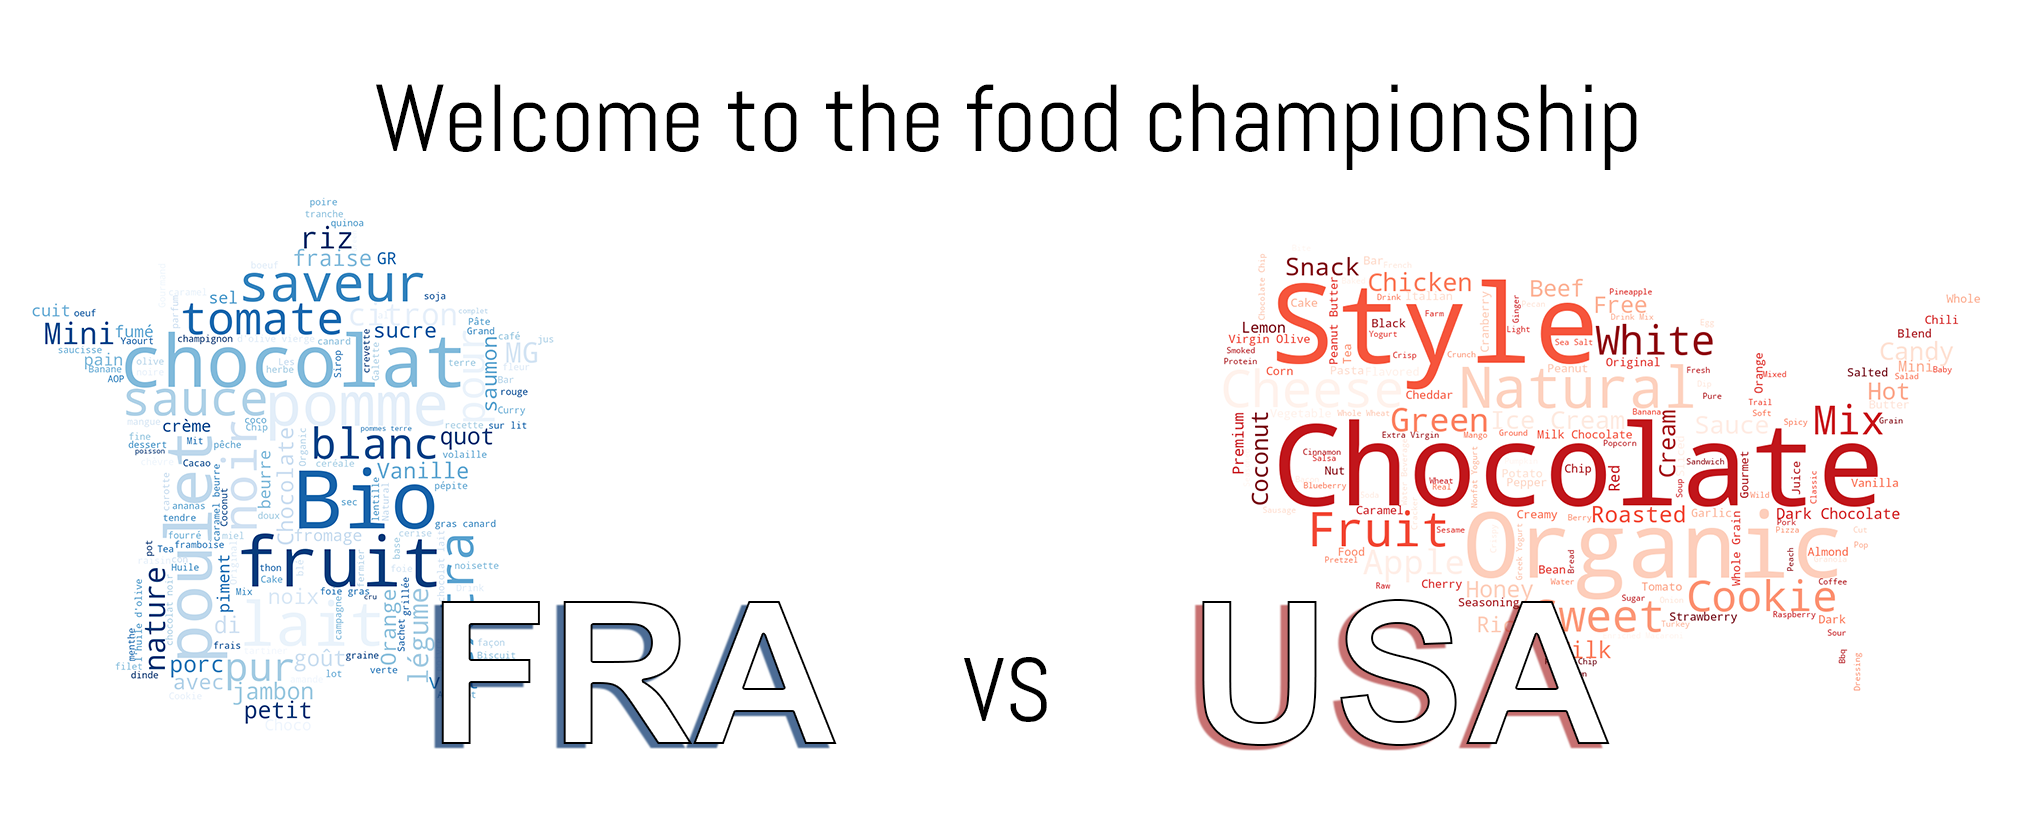
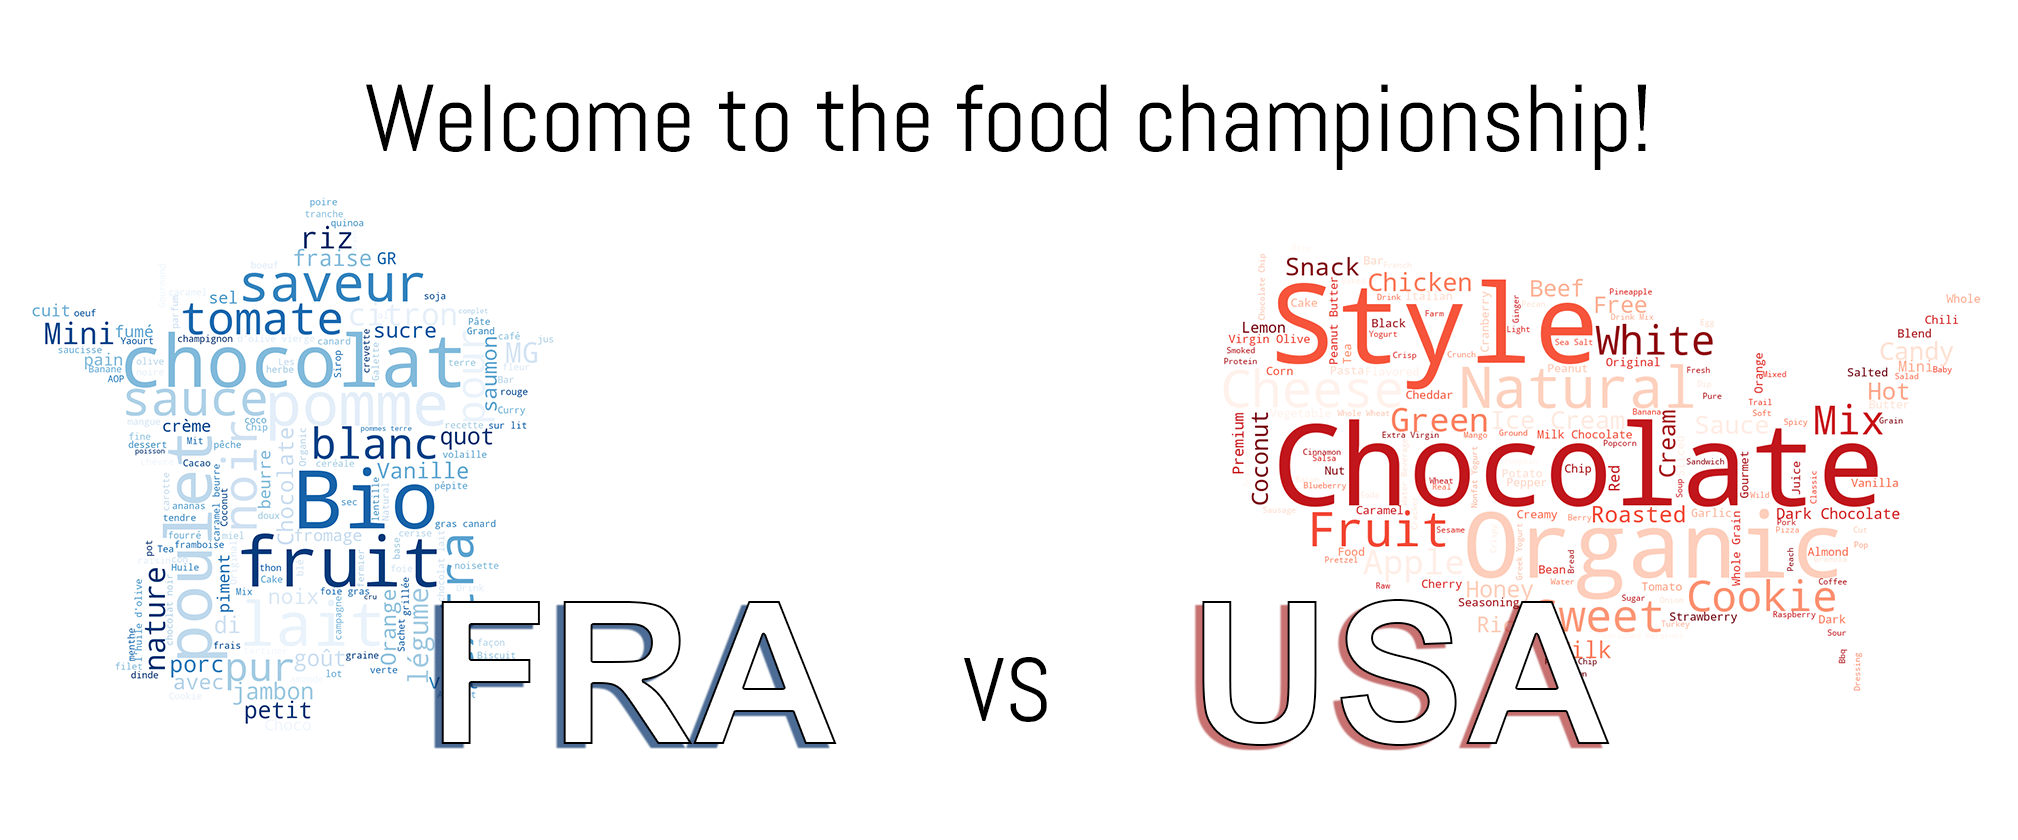
text fix and new header img

Changed region(s): [[0.1873, 0.0929, 0.8117, 0.2167]]

diff --git a/index.html b/index.html
@@ -38,13 +38,10 @@
         <div id="start">
             <h2>Start</h2>
             <h3>We all need to eat to live, but how many of us live to eat?</h3>
-            <p>
-                According to the World Health Organization (WHO), obesity is increasing. The definition of obesity is as follows:
+            <p><cite>"Overweight and obesity are defined as abnormal or excessive fat accumulation that may impair health."</cite> 
+                <br>&nbsp&nbsp&nbsp&nbsp&nbsp - World Health Organization (WHO)
             </p>
-            <blockquote cite="https://www.who.int/news-room/fact-sheets/detail/obesity-and-overweight">
-                <p><i>Overweight and obesity are defined as abnormal or excessive fat accumulation that may impair health.</i></p>
-            </blockquote>
-            <p> "Abnormal" fat accumulation is usually measured with Body Mass Index (BMI) for adults. A BMI over 25 is defined as overweight and a BMI over 30 is
+            <p> A Body Mass Index (BMI) over 25 is defined as overweight and a BMI over 30 is
                 defined as obese. In 2016, 39% of adults worldwide were overweight and 13% were obese. WHO considers obesity an epidemic and calculated in 2017 that
                 2.8 million people die every year due to being overweight or obese. Obesity is also considered an easily preventable epidemic by the WHO,
                 as it in most cases can be prevented by consuming a healthy diet and doing physical exercise.
@@ -276,36 +273,35 @@
                     </figure>
                  </div>
             <p>
-                We immediately observe that the amount of energy per 100g seems to be very similar for meat items from the two countries.
-                We also protein levels for the two different countries seems to be fairly equal.
-                However, as can be seen in the box plot for carbohydrates food items from US seems to contain much more per 100g 
-                than the products from France. This observation could, as mentioned in the introduction of this category, be 
-                explained by that the different countries prepare the food differently. A common prejudice is that
-                US products often are fried in oil, have a larger amount of sauces, have more marinated items or more items that comes
-                wrapped in bread. Maybe this observation could support that theory?
+                    The plot for carbohydrates shows that products from US seems to contain much more per 100g 
+                    than the products from France. This observation could, as mentioned in the introduction of this category, be 
+                    explained by that the different countries prepare the food differently. A common prejudice is that
+                    US products often are fried in oil, have a larger amount of sauces, have more marinated items or more items that comes
+                    wrapped in bread. Maybe this observation could support that theory? Let’s dig deeper and look at the amount of fat per 100g. Here we can see that the values for the US are actually lower than for France, 
+                    which contradicts the hypothesis. 
+       
             </p>
             <p>
-                To further investigate, we look at the amount of fat per 100g. Here we can see that the values for the US are actually lower, 
-                which would suggest that the hypothesis of that more things are fried in oil in the US is wrong. So where does the big difference in fat come from?
+                Interesting side-note: 
                 In our data analysis we took a closer look at the France data, 
-                and found out that 76.84% of the meat items from France that have between 50g and 80g of fat per 100g are <i>Foie Gras</i>. This is something that 
-                might explain the possibly surprising difference in amount of fats between the two countries, as foie gras is a typical French dish which is not really
-                that common in the US.
+                and found out that 76.84% of the meat items from France that have between 50g and 80g of fat per 100g are <i>Foie Gras</i>. This is a common product in France with a quite high fat level. This might help
+                explain the possibly surprising difference in amount of fats in meat between the two countries.
             </p>
             <p>
-                Lastly, the amount of sugar is considerably higher in the US than in France. This is no surprise given the results of the carbohydrates since the two
+                Lastly, the amount of sugar is considerably higher in the US than in France. 
+                This is no surprise given the results of the carbohydrates since the two
                 are often correlated. 
             </p>
             <p>
-                    It’s time to wrap up this round. To conclude this category, we have seen that in general,
-                    the amount of energy per 100g for the category is about the same for the both countries.
-                    However, there is a rather clear difference in where the energy is stored. For the US products 
-                    the energy is stored in carbohydrates and mainly sugar. For products from France the energy is 
-                    stored in the fat. To decide which one is the “most healthy” here is a bit controversial, as the 
-                    healthiness of fat is not well defined. In general though, eating 
-                    large amounts of sugar is never recommended since it contains a lot of energy and 
-                    might have a bad influence on the blood sugar level. For this reason,
-                    this round goes to France.
+                It’s time to wrap up this round. To conclude this category,
+                the amount of calories in this category is about the same for the both countries.
+                However, there is a rather clear difference in where the energy is stored. For the US products 
+                the energy is stored in carbohydrates and sugar. For products from France the energy is 
+                stored in the fat. To decide which one is the “most healthy” here is a bit controversial, as the 
+                healthiness of fat is not well defined. In general, eating 
+                large amounts of sugar and carbohydrates have been shown to have a worse influence on the 
+                common health than fats. For this reason,
+                this round goes to <b>France</b>.
             </p>
         </div>
     </div>
@@ -485,7 +481,7 @@
                     The distribution of the subcategories in Salty snacks is shown in the graph. Four subcategories were defined: chips, popcorn, biscuits and nuts and
                     seeds. France had 2 682 products classified as salty snacks, while the USA had 5692.
                 </p>           
-                <figure class="distributionFigure">
+                <figure class="distributionFigure plots">
                     <embed type="image/svg+xml" src="img/salty_snacks_distribution.svg" />
                 </figure>
                 <p>
@@ -553,7 +549,7 @@
     <div class="parralax" id="roundGoal"></div>
     <div class="content"> 
         <div id="goal">
-            <h2>Who won</h2>
+            <h2>Comments at the finish line</h2>
             <p>
                 As can be seen in the score, the championship ended in a victory for France! The US won in the fats round and in the bread round, but France won in the three rounds 
                 meats, dairy and snacks!

diff --git a/css/style.css b/css/style.css
@@ -45,6 +45,7 @@ body{
     font-size: 20px;
     display:inline-block;
 }
+
 #scoreBoard{
     text-decoration: none;
     color: black;
@@ -218,6 +219,7 @@ body{
     min-width: 150px;
     margin: 0;
     cursor: pointer;
+    box-shadow: 0 3px 6px 0 rgba(0,0,0,0.2), 0 3px 12px 0 rgba(0,0,0,0.19);
 }
   .nutri-dropdown {
     position: relative;
@@ -235,6 +237,7 @@ body{
     box-shadow: 0px 8px 16px 0px rgba(0,0,0,0.2);
     z-index: 1;
     cursor: pointer;
+    margin-top: 3px;
   }
 
   .dropdown-content-nutri a {

diff --git a/js/script.js b/js/script.js
@@ -60,8 +60,8 @@ $(document).ready(function (){
             usScore.innerHTML = "2"
         }
         else{
-            franceScore.innerHTML = "?"
-            usScore.innerHTML = "?"
+            franceScore.innerHTML = "3"
+            usScore.innerHTML = "2"
         }
       
     }
